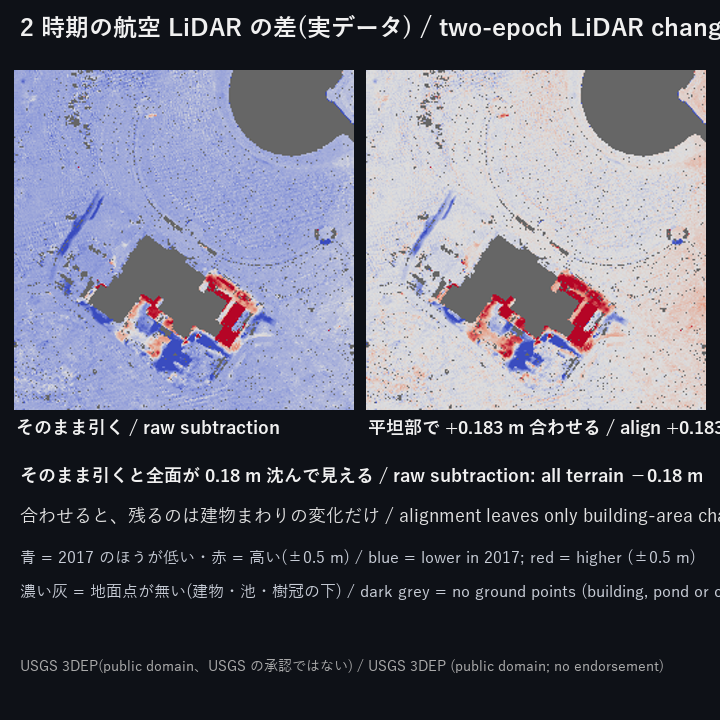
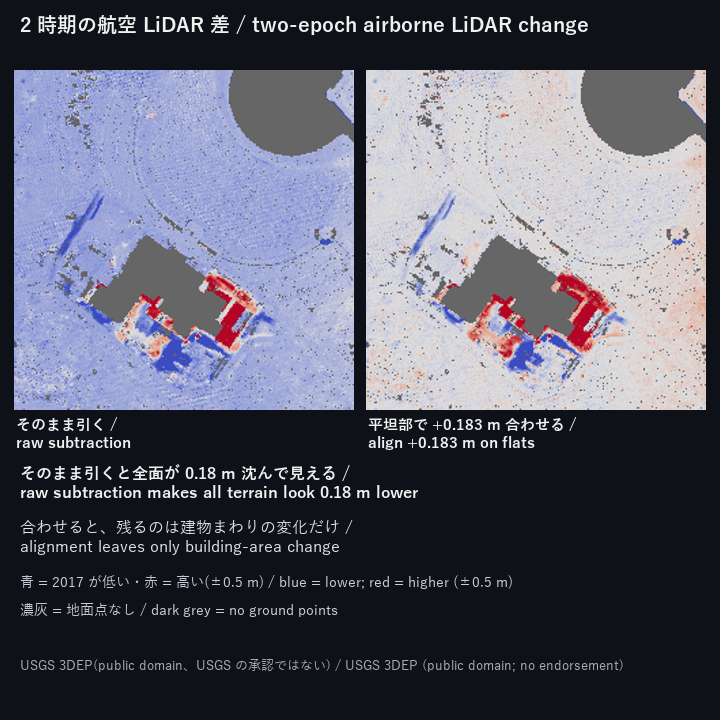
view2026: fit bilingual LiDAR cover text

diff --git a/examples/poc_lidar_terrain_change.py b/examples/poc_lidar_terrain_change.py
@@ -2024,28 +2024,28 @@ def _fig_real_usgs(R, dem_z, dod_raw, dod, change):
     S, PW = 720, 340
     st = Image.new("RGB", (S, S), (14, 17, 23))
     ds = ImageDraw.Draw(st)
-    ds.text((STILL_MARGIN, 14), _bi("2 時期の航空 LiDAR の差(実データ)",
-                                    "two-epoch LiDAR change (real)"),
+    ds.text((STILL_MARGIN, 14), _bi("2 時期の航空 LiDAR 差", "two-epoch airborne LiDAR change"),
             font=font(STILL_TITLE_FONT, True), fill=(240, 240, 240))
-    for j, (arr, m, lab) in enumerate(((dod_raw, lim, _bi("そのまま引く", "raw subtraction")),
-                                       (dod, lim, _bi("平坦部で %+.3f m 合わせる" % (-R["off_flat"]),
-                                                     "align %+.3f m" % (-R["off_flat"]))))):
+    labels = ((dod_raw, lim, "そのまま引く", "raw subtraction"),
+              (dod, lim, "平坦部で %+.3f m 合わせる" % (-R["off_flat"]),
+               "align %+.3f m on flats" % (-R["off_flat"])))
+    for j, (arr, m, ja, en) in enumerate(labels):
         rgb = np.clip(signed_rgb(arr, m) * 255.0, 0, 255).astype(np.uint8)
         xo = 14 + j * (PW + 12)
         st.paste(Image.fromarray(rgb).resize((PW, PW), Image.Resampling.BICUBIC), (xo, 70))
-        ds.text((xo + 2, 418), lab, font=font(STILL_PANEL_FONT, True), fill=(240, 240, 240))
-    ds.text((STILL_MARGIN, 466), _bi("そのまま引くと全面が %.2f m 沈んで見える" % abs(R["off_flat"]),
-                                     "raw subtraction: all terrain −%.2f m" % abs(R["off_flat"])),
-            font=font(STILL_BODY_FONT, True),
-            fill=(240, 240, 240))
-    ds.text((STILL_MARGIN, 506), _bi("合わせると、残るのは建物まわりの変化だけ",
-                                     "alignment leaves only building-area change"),
+        ds.text((xo + 2, 416), "%s /\n%s" % (ja, en),
+                font=font(STILL_PANEL_FONT, True), fill=(240, 240, 240))
+    ds.text((STILL_MARGIN, 464), "そのまま引くと全面が %.2f m 沈んで見える /\n"
+            "raw subtraction makes all terrain look %.2f m lower" %
+            (abs(R["off_flat"]), abs(R["off_flat"])),
+            font=font(STILL_BODY_FONT, True), fill=(240, 240, 240))
+    ds.text((STILL_MARGIN, 518), "合わせると、残るのは建物まわりの変化だけ /\n"
+            "alignment leaves only building-area change",
             font=font(STILL_BODY_FONT), fill=(225, 225, 225))
-    ds.text((STILL_MARGIN, 548), _bi("青 = 2017 のほうが低い・赤 = 高い(±%.1f m)" % lim,
-                                     "blue = lower in 2017; red = higher (±%.1f m)" % lim),
+    ds.text((STILL_MARGIN, 574), _bi("青 = 2017 が低い・赤 = 高い(±%.1f m)" % lim,
+                                     "blue = lower; red = higher (±%.1f m)" % lim),
             font=font(STILL_NOTE_FONT), fill=(200, 205, 215))
-    ds.text((STILL_MARGIN, 582), _bi("濃い灰 = 地面点が無い(建物・池・樹冠の下)",
-                                     "dark grey = no ground points (building, pond or canopy)"),
+    ds.text((STILL_MARGIN, 602), _bi("濃灰 = 地面点なし", "dark grey = no ground points"),
             font=font(STILL_NOTE_FONT), fill=(200, 205, 215))
     ds.text((STILL_MARGIN, S - STILL_CREDIT_FROM_BOTTOM),
             _bi("USGS 3DEP(public domain、USGS の承認ではない)",
@@ -2062,11 +2062,11 @@ def _fig_real_usgs(R, dem_z, dod_raw, dod, change):
 STILL_CREDIT_FROM_BOTTOM = 62
 #: 日英併記の表紙で使う余白と文字サイズ。 / Margins and font sizes for the bilingual cover.
 STILL_MARGIN = 20
-STILL_TITLE_FONT = 24
-STILL_PANEL_FONT = 18
-STILL_BODY_FONT = 18
-STILL_NOTE_FONT = 16
-STILL_CREDIT_FONT = 14
+STILL_TITLE_FONT = 20
+STILL_PANEL_FONT = 15
+STILL_BODY_FONT = 16
+STILL_NOTE_FONT = 14
+STILL_CREDIT_FONT = 13
 #: 図 13(実データの DoD)で地図を囲む枠の太さ [px] と色(0..1 の灰)。
 DOD_MAP_FRAME_PX = 2
 DOD_MAP_FRAME_GRAY = 0.35

diff --git a/docs/DESIGN_NOTES.de.md b/docs/DESIGN_NOTES.de.md
@@ -1245,9 +1245,9 @@ Dieses Repository hält das *Warum* in **Kommentaren im Quellcode** fest. Die mi
 - **L700** _(ja)_ — ★ここは記録値どうしの門で、記録の形と結論の向きしか見ない(記録が古いかはデータありの実行が見る)。
 - **L866** _(ja)_ — ★データがあるときは、測った値と埋め込みの記録値を突き合わせる(決定的な計算。CI の門は記録どうしなので)。
 - **L1044** _(ja)_ — ★2026-11-15: 目玉のカードのサムネイル用の正方形の静止画(独立レビュー: 動画のコマを切り抜いたサムネイルは 左のコマと見出しの文字が切れていた)。動画と同じ計算結果だけで組み、320 px に縮めても字が潰れにくい大きさにする。
-- **L1474** — ★Wenn der Nutzer `estimate_normals` explizit uebergibt, im Glauben, die Normalen seien doch vorhanden. Das ist der **Rest** der Luecke, 14 Groessenordnungen schlechter als der Standard.
-- **L1664** — ★Luecke 1 wurde am 2026-09-06 geschlossen. Dieses assert wurde so umgeschrieben, dass es **den geschlossenen Zustand fixiert** (frueher fixierte es den defekten Zustand: `d_fixed < 1e-6 < d_default` = defekt). Kehrt der Defekt zurueck, schlaegt es hier fehl.
-- **L1675** — ★Luecke 2 wurde am 2026-09-06 geschlossen. Frueher war es `< 0.9 * len(ka)` (den defekten Zustand fixierend). Jetzt fixiert es, dass **der Standard eine exakte Uebereinstimmung liefert**.
+- **L1472** — ★Wenn der Nutzer `estimate_normals` explizit uebergibt, im Glauben, die Normalen seien doch vorhanden. Das ist der **Rest** der Luecke, 14 Groessenordnungen schlechter als der Standard.
+- **L1662** — ★Luecke 1 wurde am 2026-09-06 geschlossen. Dieses assert wurde so umgeschrieben, dass es **den geschlossenen Zustand fixiert** (frueher fixierte es den defekten Zustand: `d_fixed < 1e-6 < d_default` = defekt). Kehrt der Defekt zurueck, schlaegt es hier fehl.
+- **L1673** — ★Luecke 2 wurde am 2026-09-06 geschlossen. Frueher war es `< 0.9 * len(ka)` (den defekten Zustand fixierend). Jetzt fixiert es, dass **der Standard eine exakte Uebereinstimmung liefert**.
 
 ## `examples/poc_reproducible_icp.py`
 

diff --git a/docs/DESIGN_NOTES.ko.md b/docs/DESIGN_NOTES.ko.md
@@ -1245,9 +1245,9 @@
 - **L700** _(ja)_ — ★ここは記録値どうしの門で、記録の形と結論の向きしか見ない(記録が古いかはデータありの実行が見る)。
 - **L866** _(ja)_ — ★データがあるときは、測った値と埋め込みの記録値を突き合わせる(決定的な計算。CI の門は記録どうしなので)。
 - **L1044** _(ja)_ — ★2026-11-15: 目玉のカードのサムネイル用の正方形の静止画(独立レビュー: 動画のコマを切り抜いたサムネイルは 左のコマと見出しの文字が切れていた)。動画と同じ計算結果だけで組み、320 px に縮めても字が潰れにくい大きさにする。
-- **L1474** — ★사용자가 "법선이라면 있지 않은가"라며 `estimate_normals` 를 명시적으로 넘긴 경우. 여기가 구멍의 **나머지**로, 기본값보다 14 자릿수 나쁘다.
-- **L1664** — ★2026-09-06 에 구멍 1 이 막혔다. 이 assert 는 **막힌 상태를 고정하는** 쪽으로 다시 썼다(이전에는 `d_fixed < 1e-6 < d_default` = 망가진 상태를 고정했다). 망가진 방식이 돌아오면 여기서 실패한다.
-- **L1675** — ★2026-09-06 에 구멍 2 가 막혔다. 이전에는 `< 0.9 * len(ka)`(망가진 상태를 고정)였다. 지금은 **기본값 그대로 완전 일치한다**는 것을 고정한다.
+- **L1472** — ★사용자가 "법선이라면 있지 않은가"라며 `estimate_normals` 를 명시적으로 넘긴 경우. 여기가 구멍의 **나머지**로, 기본값보다 14 자릿수 나쁘다.
+- **L1662** — ★2026-09-06 에 구멍 1 이 막혔다. 이 assert 는 **막힌 상태를 고정하는** 쪽으로 다시 썼다(이전에는 `d_fixed < 1e-6 < d_default` = 망가진 상태를 고정했다). 망가진 방식이 돌아오면 여기서 실패한다.
+- **L1673** — ★2026-09-06 에 구멍 2 가 막혔다. 이전에는 `< 0.9 * len(ka)`(망가진 상태를 고정)였다. 지금은 **기본값 그대로 완전 일치한다**는 것을 고정한다.
 
 ## `examples/poc_reproducible_icp.py`
 

diff --git a/docs/DESIGN_NOTES.md b/docs/DESIGN_NOTES.md
@@ -1243,9 +1243,9 @@
 - **L700** — ★ここは記録値どうしの門で、記録の形と結論の向きしか見ない(記録が古いかはデータありの実行が見る)。
 - **L866** — ★データがあるときは、測った値と埋め込みの記録値を突き合わせる(決定的な計算。CI の門は記録どうしなので)。
 - **L1044** — ★2026-11-15: 目玉のカードのサムネイル用の正方形の静止画(独立レビュー: 動画のコマを切り抜いたサムネイルは 左のコマと見出しの文字が切れていた)。動画と同じ計算結果だけで組み、320 px に縮めても字が潰れにくい大きさにする。
-- **L1474** — ★利用者が「法線なら在るじゃないか」と `estimate_normals` を明示的に渡した場合。 ここが穴の**残り**で、既定より 14 桁悪い。
-- **L1664** — ★2026-09-06 に穴 1 が塞がった。この assert は**塞がった状態を固定する** 側へ書き換えてある(以前は `d_fixed < 1e-6 < d_default` = 壊れている ことを固定していた)。壊れ方が戻ってきたらここが落ちる。
-- **L1675** — ★2026-09-06 に穴 2 が塞がった。以前は `< 0.9 * len(ka)`(壊れていることを 固定)だった。いまは**既定のままで完全一致する**ことを固定する。
+- **L1472** — ★利用者が「法線なら在るじゃないか」と `estimate_normals` を明示的に渡した場合。 ここが穴の**残り**で、既定より 14 桁悪い。
+- **L1662** — ★2026-09-06 に穴 1 が塞がった。この assert は**塞がった状態を固定する** 側へ書き換えてある(以前は `d_fixed < 1e-6 < d_default` = 壊れている ことを固定していた)。壊れ方が戻ってきたらここが落ちる。
+- **L1673** — ★2026-09-06 に穴 2 が塞がった。以前は `< 0.9 * len(ka)`(壊れていることを 固定)だった。いまは**既定のままで完全一致する**ことを固定する。
 
 ## `examples/poc_reproducible_icp.py`
 

diff --git a/docs/DESIGN_NOTES.en.md b/docs/DESIGN_NOTES.en.md
@@ -1245,9 +1245,9 @@ This repository records *why* things are the way they are in **comments in the s
 - **L700** _(ja)_ — ★ここは記録値どうしの門で、記録の形と結論の向きしか見ない(記録が古いかはデータありの実行が見る)。
 - **L866** _(ja)_ — ★データがあるときは、測った値と埋め込みの記録値を突き合わせる(決定的な計算。CI の門は記録どうしなので)。
 - **L1044** _(ja)_ — ★2026-11-15: 目玉のカードのサムネイル用の正方形の静止画(独立レビュー: 動画のコマを切り抜いたサムネイルは 左のコマと見出しの文字が切れていた)。動画と同じ計算結果だけで組み、320 px に縮めても字が潰れにくい大きさにする。
-- **L1474** — ★When the user explicitly passes `estimate_normals`, thinking "but the normals do exist". This is the **remainder** of the gap, 14 orders of magnitude worse than the default.
-- **L1664** — ★Gap 1 was closed on 2026-09-06. This assert has been rewritten to **pin the closed state** (previously it pinned the broken state: `d_fixed < 1e-6 < d_default` = broken). If the breakage returns, this fails.
-- **L1675** — ★Gap 2 was closed on 2026-09-06. Previously it was `< 0.9 * len(ka)` (pinning the broken state). Now it pins that **the default gives an exact match**.
+- **L1472** — ★When the user explicitly passes `estimate_normals`, thinking "but the normals do exist". This is the **remainder** of the gap, 14 orders of magnitude worse than the default.
+- **L1662** — ★Gap 1 was closed on 2026-09-06. This assert has been rewritten to **pin the closed state** (previously it pinned the broken state: `d_fixed < 1e-6 < d_default` = broken). If the breakage returns, this fails.
+- **L1673** — ★Gap 2 was closed on 2026-09-06. Previously it was `< 0.9 * len(ka)` (pinning the broken state). Now it pins that **the default gives an exact match**.
 
 ## `examples/poc_reproducible_icp.py`
 

diff --git a/docs/DESIGN_NOTES.tw.md b/docs/DESIGN_NOTES.tw.md
@@ -1245,9 +1245,9 @@
 - **L700** _(ja)_ — ★ここは記録値どうしの門で、記録の形と結論の向きしか見ない(記録が古いかはデータありの実行が見る)。
 - **L866** _(ja)_ — ★データがあるときは、測った値と埋め込みの記録値を突き合わせる(決定的な計算。CI の門は記録どうしなので)。
 - **L1044** _(ja)_ — ★2026-11-15: 目玉のカードのサムネイル用の正方形の静止画(独立レビュー: 動画のコマを切り抜いたサムネイルは 左のコマと見出しの文字が切れていた)。動画と同じ計算結果だけで組み、320 px に縮めても字が潰れにくい大きさにする。
-- **L1474** — ★當使用者認為「法線明明是有的」而顯式傳入 `estimate_normals` 時。這裡是缺口的**殘餘**，比預設值差 14 個數量級。
-- **L1664** — ★缺口 1 已於 2026-09-06 封堵。此 assert 已改寫為**固定已封堵的狀態**一側（以前固定的是損壞狀態：`d_fixed < 1e-6 < d_default` = 已損壞）。若損壞方式回歸，這裡會失敗。
-- **L1675** — ★缺口 2 已於 2026-09-06 封堵。以前是 `< 0.9 * len(ka)`（固定損壞狀態）。現在固定的是**保持預設即可完全一致**。
+- **L1472** — ★當使用者認為「法線明明是有的」而顯式傳入 `estimate_normals` 時。這裡是缺口的**殘餘**，比預設值差 14 個數量級。
+- **L1662** — ★缺口 1 已於 2026-09-06 封堵。此 assert 已改寫為**固定已封堵的狀態**一側（以前固定的是損壞狀態：`d_fixed < 1e-6 < d_default` = 已損壞）。若損壞方式回歸，這裡會失敗。
+- **L1673** — ★缺口 2 已於 2026-09-06 封堵。以前是 `< 0.9 * len(ka)`（固定損壞狀態）。現在固定的是**保持預設即可完全一致**。
 
 ## `examples/poc_reproducible_icp.py`
 

diff --git a/docs/DESIGN_NOTES.zh.md b/docs/DESIGN_NOTES.zh.md
@@ -1245,9 +1245,9 @@
 - **L700** _(ja)_ — ★ここは記録値どうしの門で、記録の形と結論の向きしか見ない(記録が古いかはデータありの実行が見る)。
 - **L866** _(ja)_ — ★データがあるときは、測った値と埋め込みの記録値を突き合わせる(決定的な計算。CI の門は記録どうしなので)。
 - **L1044** _(ja)_ — ★2026-11-15: 目玉のカードのサムネイル用の正方形の静止画(独立レビュー: 動画のコマを切り抜いたサムネイルは 左のコマと見出しの文字が切れていた)。動画と同じ計算結果だけで組み、320 px に縮めても字が潰れにくい大きさにする。
-- **L1474** — ★当用户认为“法线明明是有的”而显式传入 `estimate_normals` 时。这里是缺口的**残余**，比默认值差 14 个数量级。
-- **L1664** — ★缺口 1 已于 2026-09-06 封堵。此 assert 已改写为**固定已封堵的状态**一侧（以前固定的是损坏状态：`d_fixed < 1e-6 < d_default` = 已损坏）。若损坏方式回归，这里会失败。
-- **L1675** — ★缺口 2 已于 2026-09-06 封堵。以前是 `< 0.9 * len(ka)`（固定损坏状态）。现在固定的是**保持默认即可完全一致**。
+- **L1472** — ★当用户认为“法线明明是有的”而显式传入 `estimate_normals` 时。这里是缺口的**残余**，比默认值差 14 个数量级。
+- **L1662** — ★缺口 1 已于 2026-09-06 封堵。此 assert 已改写为**固定已封堵的状态**一侧（以前固定的是损坏状态：`d_fixed < 1e-6 < d_default` = 已损坏）。若损坏方式回归，这里会失败。
+- **L1673** — ★缺口 2 已于 2026-09-06 封堵。以前是 `< 0.9 * len(ka)`（固定损坏状态）。现在固定的是**保持默认即可完全一致**。
 
 ## `examples/poc_reproducible_icp.py`
 
